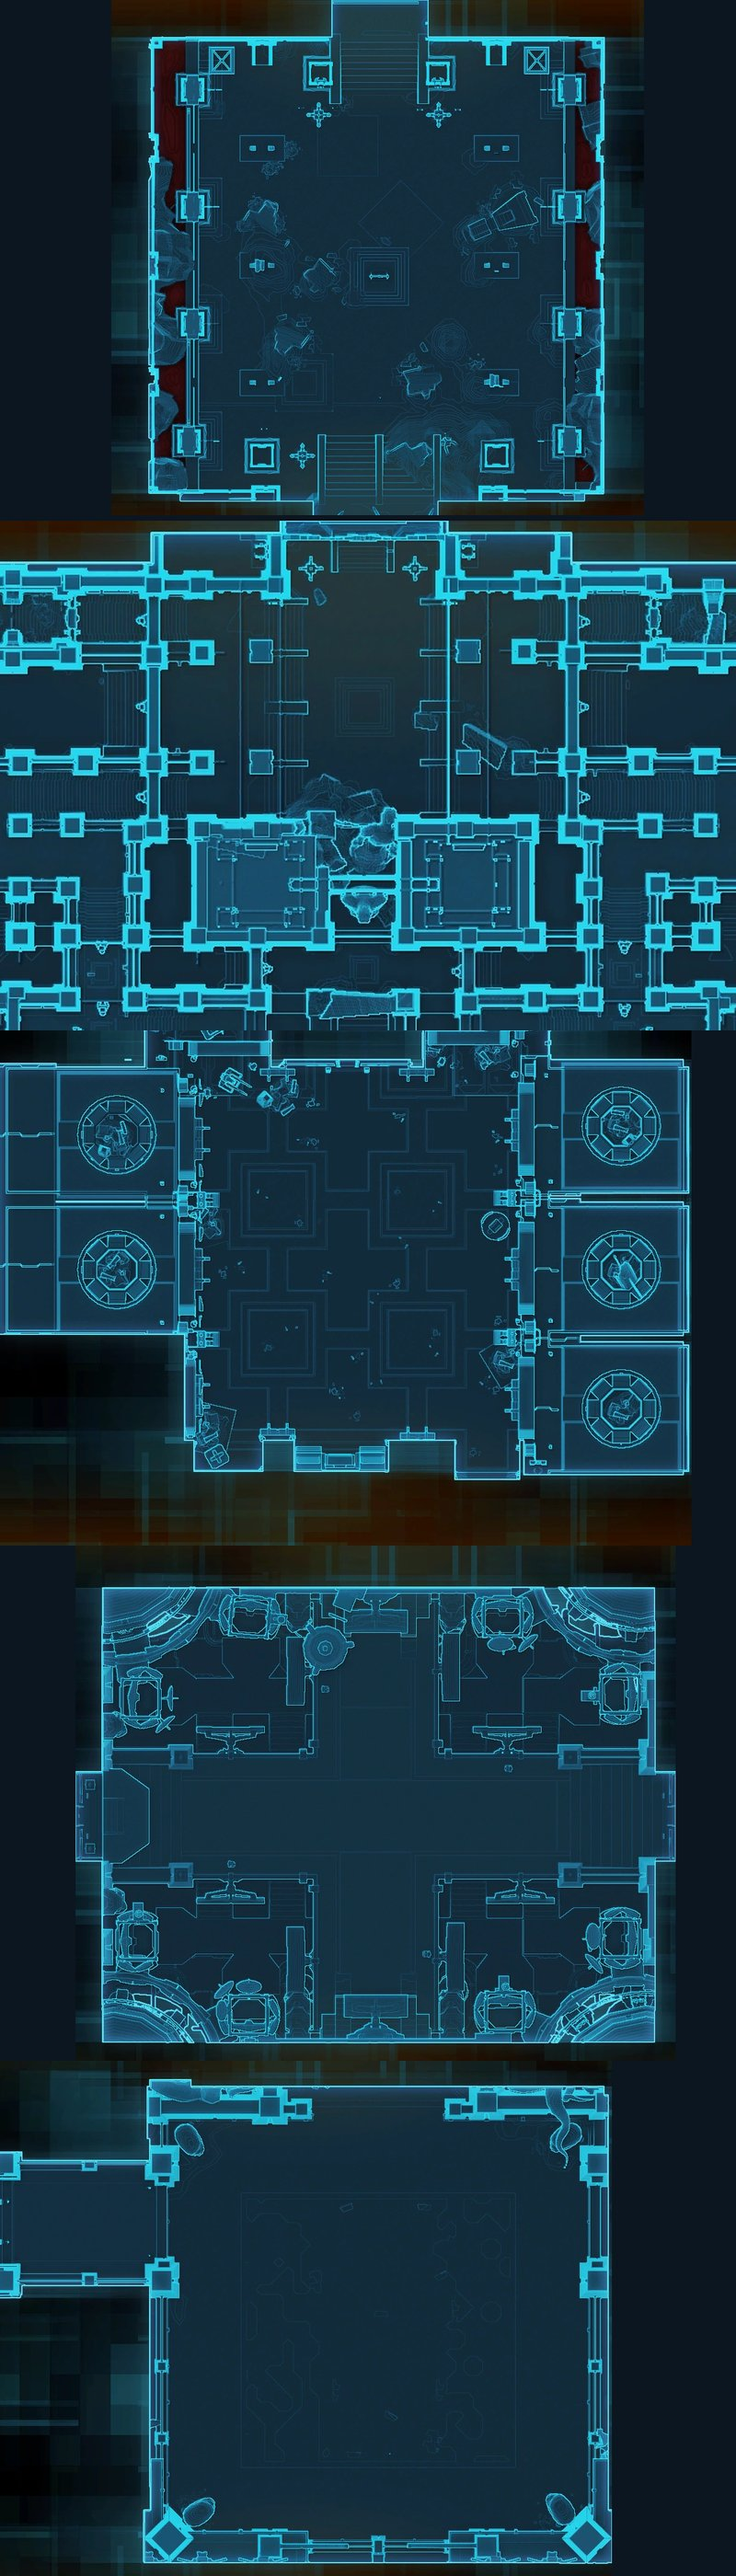
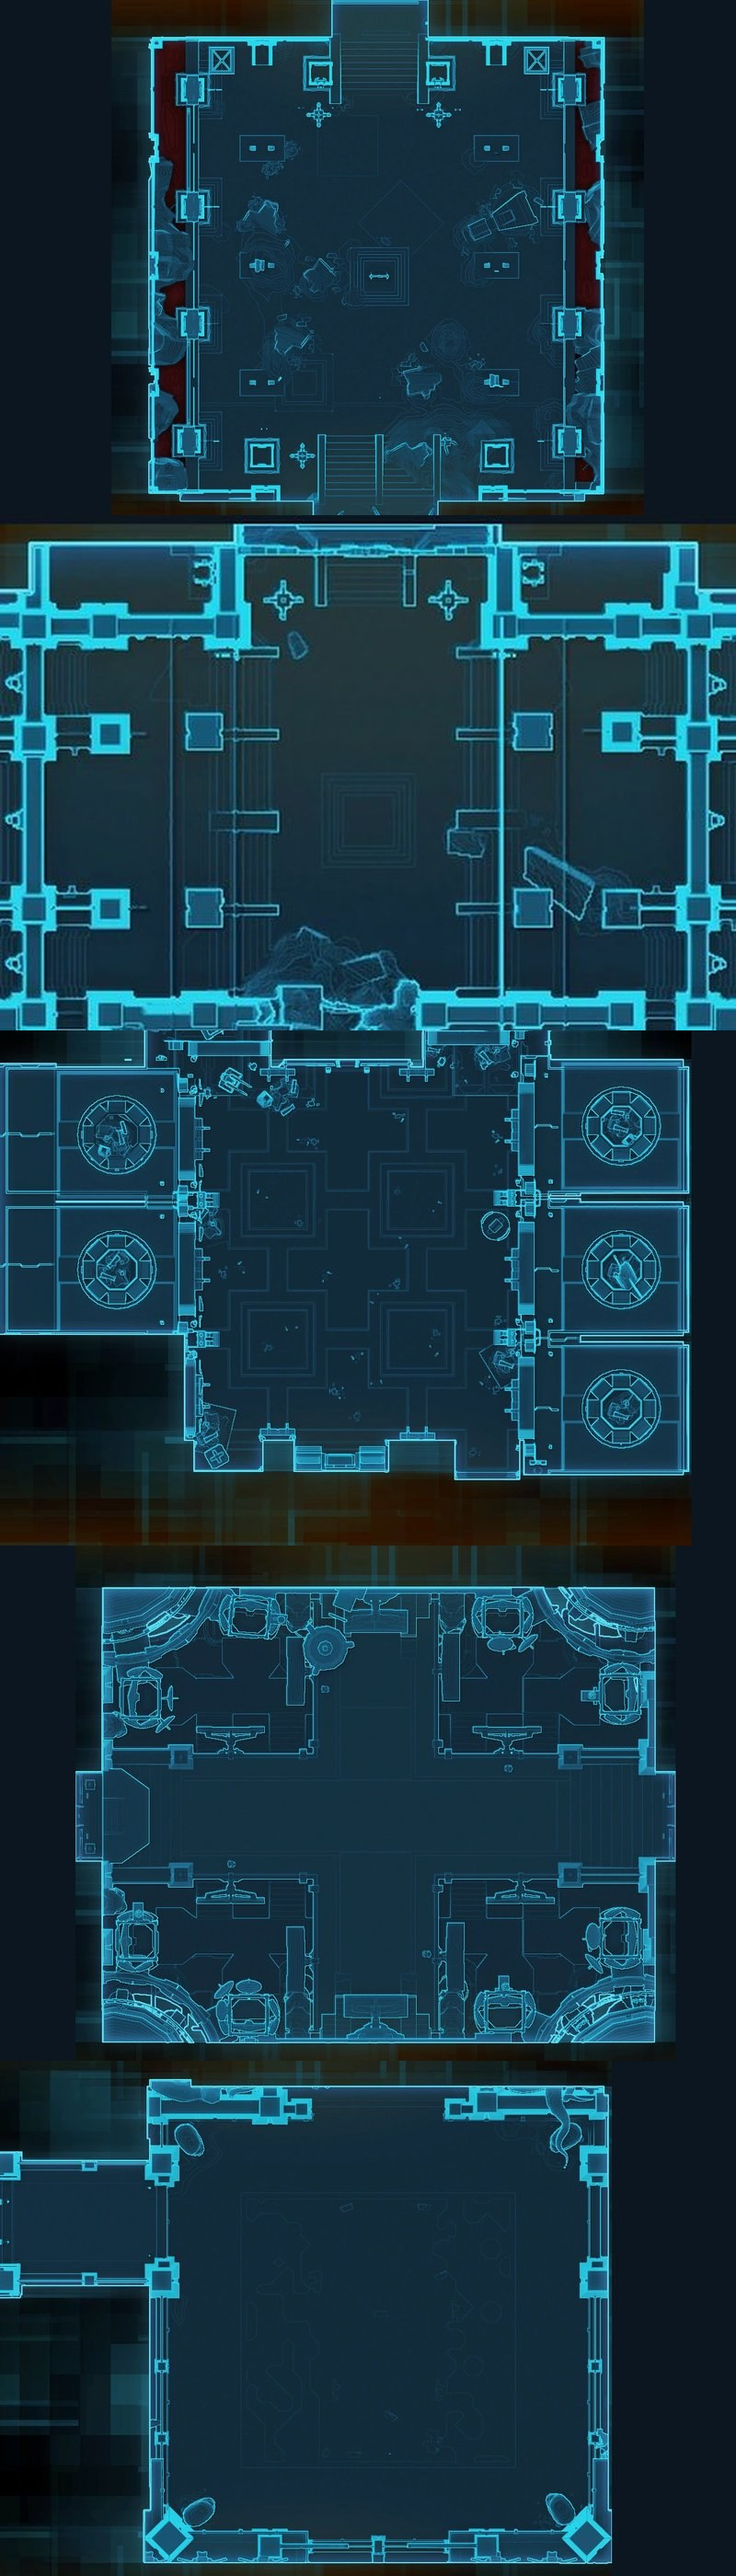
Draxus: per-wave diagrams from kill-video review, hall-cropped map, room-view sprite support

Changed region(s): [[0.0, 0.1864, 1.0, 0.4039]]

diff --git a/src/App.tsx b/src/App.tsx
@@ -2,7 +2,7 @@ import { Page, Section, Text, Image, Callout, BulletList, Grid, Select, Segmente
 
 type Role = "t" | "h" | "d";
 interface Ph { n: string; c: string; t: string; h: string; d: string; tb: string[]; hb: string[]; db: string[] }
-interface Boss { name: string; mp?: { a: string; f: number[]; n: number; cr: string }; rv?: { a: string; H: number[]; cr: string; href: string }; tr?: string; sm: { t: string; h: string; d: string }; ar: "c" | "r" | "d"; conf: string; ph: Ph[]; nim: string[]; sorc?: string; flag?: string[]; src: string[] }
+interface Boss { name: string; mp?: { a: string; f: number[]; n: number; cr: string }; rv?: { a: string; i?: number; n?: number; H: number[]; cr: string; href: string; how?: string }; tr?: string; sm: { t: string; h: string; d: string }; ar: "c" | "r" | "d"; conf: string; ph: Ph[]; nim: string[]; sorc?: string; flag?: string[]; src: string[] }
 interface Op { id: string; name: string; modes: string; md: string[]; bosses: Boss[] }
 
 const SRC: Record<string, { title: string; site: string; href: string }> = {
@@ -322,14 +322,46 @@ const OPS: Op[] = [
           t: "P 48 17.6 Tank 1|P 51.9 17.6 Tank 2 (stacked)", tb: ["Both tanks stand in front, stacked on their green circles, to split Double Strike.", "Tank near a pillar, with the raid behind Nefra."],
           h: "P 46.1 43.7 Healers", hb: ["Assign cleanse targets for the green Voice of the Masters DoT (about every 30s)."],
           d: "P 53.9 41.8 DPS (you)|> 70.9 55.3 60.4 43.7 droid runs at someone: leave the red circle", db: ["Stay behind Nefra.", "Get out of the droid's red circle; ranged can take its threat.", "Self-cleanse the DoT if you can."] } ] },
-    { name: "Gate Commander Draxus", rv: { a: "asset:room-df-draxus.jpg", H: [2.199183, -0.947202, -61.860664, -0.0, 0.330608, 11.701833, -0.0, -0.01953, 1.0], cr: "Frame at 2:37 of \"Dread Fortress - Master Mode - Draxus - Guide (fully narrated)\", Red Hoth Chilly Peppers, YouTube, Jul 4, 2024 (7.5)", href: "https://www.youtube.com/watch?v=Muqfj9Ss0WU&t=157s" }, mp: { a: "asset:map-df.jpg", f: [1], n: 5, cr: "SWTOR Fandom wiki, Dread Fortress map files" }, sm: { t: "10–15s of Draxus alone, then add waves; he jumps down for some waves.", h: "Add waves are the danger; keep the tanks up.", d: "Follow the add kill priority; it's the same as Veteran with less damage." }, ar: "r", conf: "Checked against Dulfy (HM + NiM) + Merlyn", src: ["dDF", "dDFn", "mlDF"], flag: ["Map re-cropped to the central hall of the Gatehouse map (top steps, raised emblem in the middle, side halls east and west, south opening). Spawn sides from Dulfy: one Dismantler from the west (red) and one from the east (blue); Corruptors on the sides (or south in waves 5, 6 and 9); Despoiler from the south. Bulwark and Guardian spawn spots are approximate.", "Dulfy (comments): the top steps and the dark area around the middle emblem are slightly raised, and attacks on Bulwarks miss from there."],
+    { name: "Gate Commander Draxus", rv: { a: "asset:room-df-draxus.jpg", H: [1.385485, -0.595384, -22.27537, 0.0, 0.207811, 11.701833, 0.0, -0.012276, 1.0], cr: "Frame at 2:37 of \"Dread Fortress - Master Mode - Draxus - Guide (fully narrated)\", Red Hoth Chilly Peppers, YouTube, Jul 4, 2024 (7.5)", href: "https://www.youtube.com/watch?v=Muqfj9Ss0WU&t=157s" }, mp: { a: "asset:map-df.jpg", f: [1], n: 5, cr: "SWTOR Fandom wiki, Dread Fortress map files" }, sm: { t: "10–15s of Draxus alone, then add waves; he jumps down for some waves.", h: "Add waves are the danger; keep the tanks up.", d: "Follow the add kill priority; it's the same as Veteran with less damage." }, ar: "r", conf: "Checked against Dulfy (HM + NiM) + Merlyn + 2 kill videos (7.3, 7.5)", src: ["dDF", "dDFn", "mlDF"], flag: ["Per-wave spawn sides and roles come from an automated review of two kill videos: the narrated Master Mode guide (Red Hoth Chilly Peppers, 7.5) and a 16-player Veteran kill (xtopolis, 7.3). They're cross-checked with Dulfy and Merlyn; where they disagree, the video wins. Dulfy puts the Dismantlers on the west and east sides, but the videos show them at the back corners.", "Draxus Despatchers also come in from the front gate; the review didn't say which wave.", "Spots are placed by the room's layout (front stairs and gate, raised emblem in the middle, side doors, back door), so they're approximate."],
       sorc: "Sorc/Sage bubbles cast from outside a Bulwark shield still work on players inside it (Dulfy NiM).",
       nim: ["Dulfy NiM: Subteroth explosions give +200% damage taken, so tanks survive 2–3 at most.", "Dulfy NiM: interrupting a Corruptor gives Backlash (a second interrupt kills you). Plan an interrupt rotation.", "Dulfy NiM: players under a Bulwark shield can't be healed; Guardian slam one-shots non-tanks.", DULFY_OLD],
       ph: [
-        { n: "Draxus phases + 9 add waves", c: "B 50 6 Draxus (lands on the top steps)|R 45.6 21.9 8.8 5 Raised emblem|A 25 22 Dismantler (red, west side)|A 75 22 Dismantler (blue, east side)|A 23 30 Corruptor (west side)|A 77 30 Corruptor (east side)|A 44 40 Bulwark (approx.)|Z 44 40 3.6 Bulwark shield (4m)|A 56 40 Despoiler / Subteroths (south)|A 50 33 Guardian of the Fortress (approx.)",
-          t: "P 50 10.5 Tank on Draxus: Suppressive Fire cone up the steps, away from the group|P 50 29 Off-tank: gather adds mid-room, off the emblem", tb: ["Face Draxus's Suppressive Fire away. He takes about 20% per landing, then flies off.", "Grab Dismantlers and Guardians; kill the blue Dismantler first (3x Strong Swipe damage)."],
-          h: "P 61 31 Healers: outside every Bulwark shield (4m)", hb: ["Anyone within 4m of a Bulwark can't be healed. Pull people out to heal them.", "You can leave one add alive to recover between waves."],
-          d: "P 45 37 DPS inside the Bulwark shield (within 4m)|P 27 27 Corruptor interrupter (west)|P 73 27 Corruptor interrupter (east)", db: ["Interrupt the Corruptors.", "Stand within 4m of a Bulwark to damage its shielded adds.", "Sequence: Draxus → W1–2 → Draxus + W3 → W4 → Draxus + W5 → W6–8 → Draxus + W9."] } ] },
+        { n: "Draxus phases: raid stacks on the stairs", c: "B 50.0 11.1 Draxus (middle landing, front stairs)|O 50.0 3.2 Front gate|R 44.8 34.8 11.9 11.9 Raised emblem",
+          t: "P 50.0 16.7 Tank: hold Draxus; Suppressive Fire away from the stack", tb: ["Face Suppressive Fire away from the raid. He takes about 20% per landing, then flies off (Dulfy).", "Sequence: Draxus → W1–2 → Draxus + W3 → W4 → Draxus + W5 → W6–8 → Draxus + W9."],
+          h: "P 55.6 20.7 Healers: in the stack on the stairs", hb: ["The whole raid stacks tightly on the stairs in front of Draxus.", "Top everyone up before the next wave."],
+          d: "P 44.4 18.3 Melee DPS: stack on the stairs on Draxus|P 51.6 24.7 Ranged DPS: same stack, front of the stairs", db: ["Stack tight on the stairs and burn Draxus.", "When he flies off, turn to the next wave's doors."] },
+        { n: "Waves 1–2: Subteroths", c: "A 50.0 65.2 W1 Subteroths (back-center door)|A 50.0 5.6 W2 Subteroths (front gate, down the stairs)|R 44.8 34.8 11.9 11.9 Raised emblem",
+          t: "P 50.0 40.6 Tank: group the Subteroths dead center|> 50.0 61.2 50.0 45.3 pull W1 to the center", tb: ["Pick up the W1 Subteroths at the back door and group them in the middle so cleave hits them all.", "W2 comes down the stairs from the front gate: drag them into the same pile."],
+          h: "P 50.0 28.6 Healers: central floor, line of sight to both sides", hb: ["Stand centrally so you can see both sides of the hall."],
+          d: "P 44.4 46.1 Melee DPS: cleave the pile|P 57.1 28.6 Ranged DPS: central floor, AoE the pile", db: ["AoE the pile in the center.", "MM: each Subteroth death stacks a vulnerability debuff, so designated players soak the explosions with a defensive."] },
+        { n: "Wave 3: Corruptor pair (Draxus up)", c: "B 50.0 11.1 Draxus|A 33.3 39.8 W3 Corruptor (mid-left)|A 66.7 39.8 W3 Corruptor (mid-right)|R 44.8 34.8 11.9 11.9 Raised emblem",
+          t: "P 50.0 16.7 Tank: keep Draxus on the landing", tb: ["Draxus is up during this wave: hold him where he is."],
+          h: "P 50.0 28.6 Healers: central floor, line of sight to both Corruptors", hb: ["Both halves of the raid are split: stand where you can reach each."],
+          d: "P 37.3 33.4 Split group 1: left Corruptor, interrupt|P 62.7 33.4 Split group 2: right Corruptor, interrupt", db: ["The raid splits in two, one half on each Corruptor; interrupt every cast.", "MM: an interrupt gives Backlash (a second one kills you), so rotate interrupters (Dulfy NiM)."] },
+        { n: "Wave 4: Dismantlers + Subteroths", c: "A 34.9 60.5 W4 Dismantler (back-left corner)|A 65.1 60.5 W4 Dismantler (back-right corner)|A 50.0 5.6 W4 Subteroths (front gate)|R 44.8 34.8 11.9 11.9 Raised emblem",
+          t: "P 38.1 54.9 Tank 1: left Dismantler, faced away from the center|P 61.9 54.9 Tank 2: right Dismantler, faced away", tb: ["Pick each Dismantler up near its corner and face it away from the raid.", "Dodge the circle slams. Kill the blue Dismantler first (3x Strong Swipe, Dulfy)."],
+          h: "P 50.0 30.2 Healers: central floor", hb: ["Watch the Dismantler tanks; step out of slam circles."],
+          d: "P 50.0 52.5 Melee DPS: on the Dismantler being killed|P 56.3 23.9 Ranged DPS: central floor, then the Subteroths", db: ["Blue Dismantler first, then red; clean up the Subteroths coming down the stairs.", "Stay out of the slam circles."] },
+        { n: "Wave 5: Bulwarks + corner Corruptors (Draxus up)", c: "B 50.0 11.1 Draxus|A 34.9 12.7 W5 Bulwark (front-left, raised)|Z 34.9 12.7 5.7 Bulwark shield (4m)|A 65.1 12.7 W5 Bulwark (front-right, raised)|Z 65.1 12.7 5.7|A 34.9 60.5 W5 Corruptor (back-left)|A 65.1 60.5 W5 Corruptor (back-right)",
+          t: "P 50.0 16.7 Tank: hold Draxus", tb: ["Draxus is up again: keep him on the landing, cone away."],
+          h: "P 50.0 31.8 Healers: central floor, outside the shields", hb: ["Anyone inside a Bulwark shield can't be healed (Dulfy NiM); heal them when they step out."],
+          d: "P 39.7 17.5 Assigned DPS: into the Bulwark bubble|P 38.9 54.9 Split group 1: back-left Corruptor|P 61.1 54.9 Split group 2: back-right Corruptor", db: ["Assigned players run into each Bulwark's bubble (within 4m) to damage it.", "Split for the corner Corruptors and keep interrupting."] },
+        { n: "Wave 6: center Bulwark, Corruptor, Despoiler", c: "A 50.0 40.6 W6 Bulwark (dead center)|Z 50.0 40.6 5.7 Bulwark shield (4m)|A 33.3 39.8 W6 Corruptor (mid-left)|A 66.7 39.8 W6 Despoiler, healer add (mid-right)",
+          t: "P 50.0 23.9 Tank: hold leftovers off the healers", tb: ["The review lists no Dismantler or Guardian in W6: help on the Bulwark and peel loose adds."],
+          h: "P 55.6 25.5 Healers: outside the center shield", hb: ["The Bulwark sits on the center: heal from just outside its 4m bubble."],
+          d: "P 46.0 43.8 Assigned DPS: inside the center Bulwark bubble|P 37.3 35.0 Melee DPS: peel to the Corruptor, interrupt|P 62.7 35.0 Melee DPS: peel to the Despoiler|P 42.9 27.0 Ranged DPS: central floor", db: ["Melee peel to the Corruptor and the Despoiler where they spawn.", "Ranged stay central for line of sight to both."] },
+        { n: "Wave 7: Guardians + Subteroths", c: "A 28.6 41.4 W7 Guardian (left side door)|A 71.4 41.4 W7 Guardian (right side door)|A 50.0 5.6 W7 Subteroths (front gate)|R 44.8 34.8 11.9 11.9 Raised emblem",
+          t: "P 34.1 46.1 Tank 1: left Guardian, faced away|P 65.9 46.1 Tank 2: right Guardian, faced away", tb: ["Pick up the Guardians at the side doors and face their purple cones away from the raid.", "In NiM the Guardian slam one-shots non-tanks (Dulfy)."],
+          h: "P 50.0 28.6 Healers: central floor", hb: ["Stay out of the purple Guardian cones."],
+          d: "P 50.0 19.1 Melee DPS: Subteroths at the foot of the stairs|P 57.1 30.2 Ranged DPS: central floor", db: ["Dodge the Guardian cones.", "MM: only the designated soakers stand in Subteroth explosions."] },
+        { n: "Wave 8: Corruptors, Bulwarks, Despoiler", c: "A 38.1 20.7 W8 Corruptor (front-left, base of stairs)|A 61.9 20.7 W8 Corruptor (front-right, base of stairs)|A 34.9 60.5 W8 Bulwark (back-left)|Z 34.9 60.5 5.7 Bulwark shield (4m)|A 65.1 60.5 W8 Bulwark (back-right)|Z 65.1 60.5 5.7|A 50.0 40.6 W8 Despoiler (center floor)",
+          t: "P 50.0 47.7 Tank: hold the leftovers from W6–7 near the center", tb: ["W6–8 come back to back with no Draxus phase between (Dulfy)."],
+          h: "P 50.0 31.8 Healers: central floor, outside both shields", hb: ["Heal people as they come out of the Bulwark bubbles."],
+          d: "P 42.1 24.7 Split group 1: front-left Corruptor|P 57.9 24.7 Split group 2: front-right Corruptor|P 38.9 54.9 Assigned DPS: into a Bulwark bubble|P 54.8 43.8 Melee DPS: Despoiler in the center", db: ["Split for the Corruptors at the base of the stairs; interrupt.", "Assigned players go into the back-corner Bulwark bubbles; melee kill the Despoiler."] },
+        { n: "Wave 9: final wave (Draxus up)", c: "B 50.0 11.1 Draxus|A 39.7 13.5 W9 Guardian (front-left, on the stairs)|A 60.3 13.5 W9 Guardian (front-right, on the stairs)|A 50.0 65.2 W9 Corruptor (back-center door)",
+          t: "P 43.7 19.1 Tank 1: left Guardian beside Draxus|P 56.3 19.1 Tank 2: right Guardian beside Draxus", tb: ["Two Guardians land on the stairs next to Draxus: pick them up and face the cones off the stack.", "Who holds Draxus during W9 isn't clear from the review; agree it before the pull (unverified)."],
+          h: "P 50.0 27.0 Healers: below the stairs, line of sight to the back door", hb: ["Keep the Guardian tanks up; stay out of the cones."],
+          d: "P 50.0 58.9 Melee DPS: back-center Corruptor, interrupt|P 50.8 23.1 Ranged DPS: on Draxus from below the stairs", db: ["One group peels to the back-center Corruptor and interrupts.", "Everyone else burns Draxus."] } ] },
     { name: "Grob'thok, Who Feeds the Forge", mp: { a: "asset:map-df.jpg", f: [2], n: 5, cr: "SWTOR Fandom wiki, Dread Fortress map files" }, sm: { t: "Move Grob'thok into the ceiling magnet to stun him and interrupt Pipe Smash.", h: "The magnet stuns players too; stay out of the outer track.", d: "Don't stand in fire; kill add waves." }, ar: "c", conf: "Checked against Dulfy (HM + NiM) + Merlyn", src: ["dDF", "dDFn", "mlDF"],
       sorc: "Lava feet on you: keep moving and lay the trail where the off-tank drags the Ugnaughts.",
       nim: ["Dulfy NiM: standing under the Magnet kills you; two players get mining lasers.", "Dulfy NiM: Dreadful Ugnaughts are immune until run through lava; Roar knocks back and forces a swap; consecutive Pipe Smashes get lethal.", DULFY_OLD],
@@ -1053,13 +1085,15 @@ function Arena({ ph, role, boss, pi, uid, dt }: { ph: Ph; role: Role; boss: Boss
       {boss.rv ? <div style={{ marginBottom: 6 }}><Segmented options={[{ value: "room", label: "Room view" }, { value: "map", label: "Map view" }]} value={view} onChange={(v: string) => setView(v)} /></div>
         : <div style={{ ...note, marginTop: 0, marginBottom: 4 }}>Map view (no clear overhead frame from a kill video yet, so no Room view for this boss).</div>}
       <div style={{ position: "relative", width: "100%", aspectRatio: "10 / 7", overflow: "hidden", borderRadius: 8 }}>
-        {rv ? <Image src={rv.a} alt={"In-game screenshot of the boss room: " + boss.name} ratio="800/560" width="100%" />
+        {rv ? <div style={{ position: "absolute", left: 0, width: "100%", top: (-(rv.i ?? 0) * 100) + "%" }}>
+            <Image src={rv.a} alt={"In-game screenshot of the boss room: " + boss.name} ratio={"800/" + (560 * (rv.n ?? 1))} width="100%" />
+          </div>
           : <div style={{ position: "absolute", left: 0, width: "100%", top: (-fi * 100) + "%" }}>
             <Image src={mp.a} alt={"In-game area map: " + boss.name} ratio={"800/" + (560 * mp.n)} width="100%" />
           </div>}
         {svg}
       </div>
-      {rv ? <div style={note}>{"Room view: " + rv.cr + ". Markers are projected from the map view onto this camera angle (lined up on the raised emblem), so they are approximate; spots outside the shot are pinned to the edge. Video: " + rv.href}</div> : null}
+      {rv ? <div style={note}>{"Room view: " + rv.cr + ". Markers are projected from the map view onto this camera angle (lined up on " + (rv.how ?? "the raised emblem") + "), so they are approximate; spots outside the shot are pinned to the edge. Video: " + rv.href}</div> : null}
       {key}
     </div>
   );
